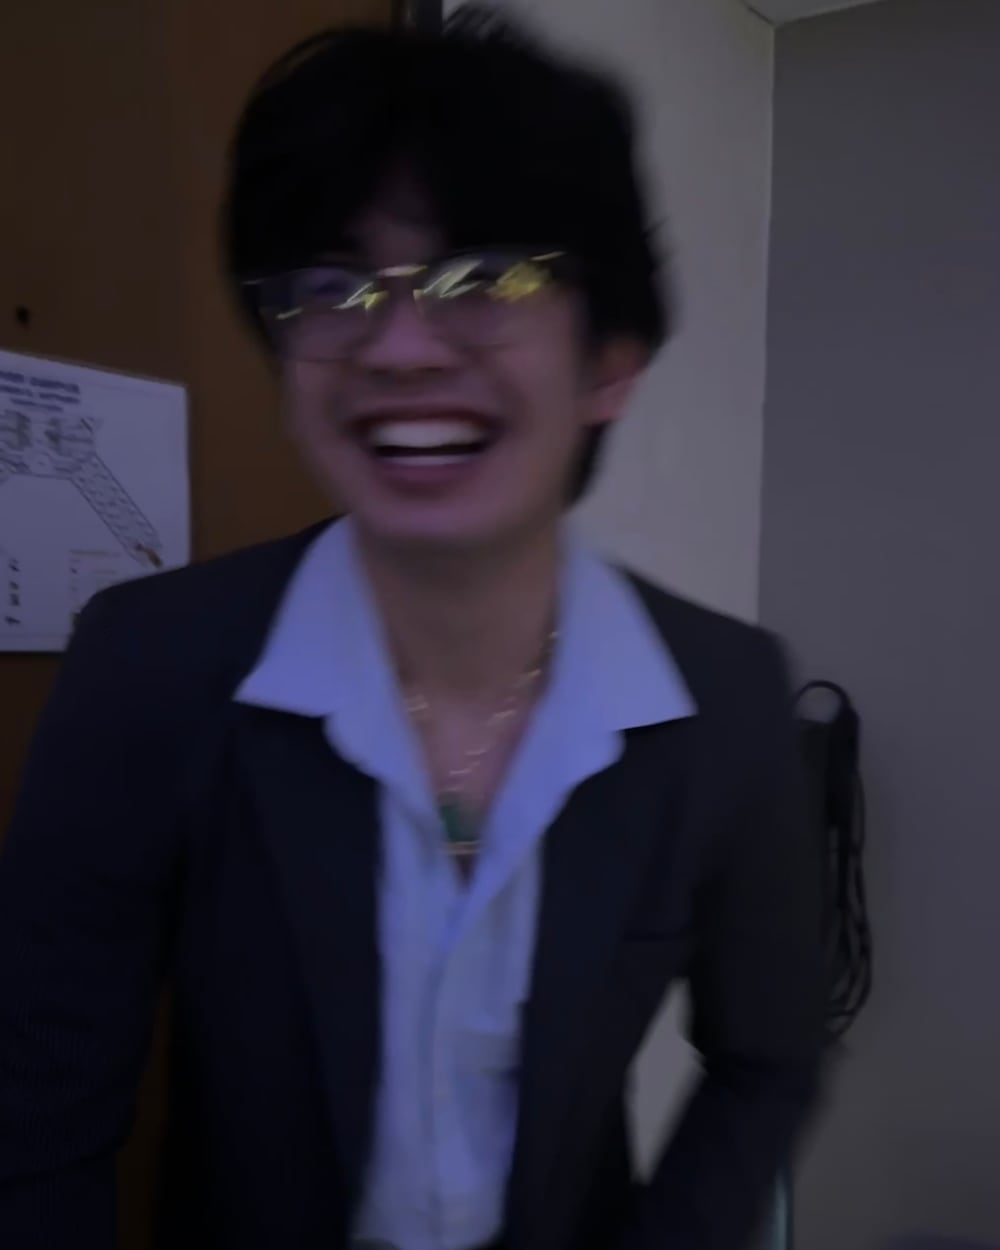
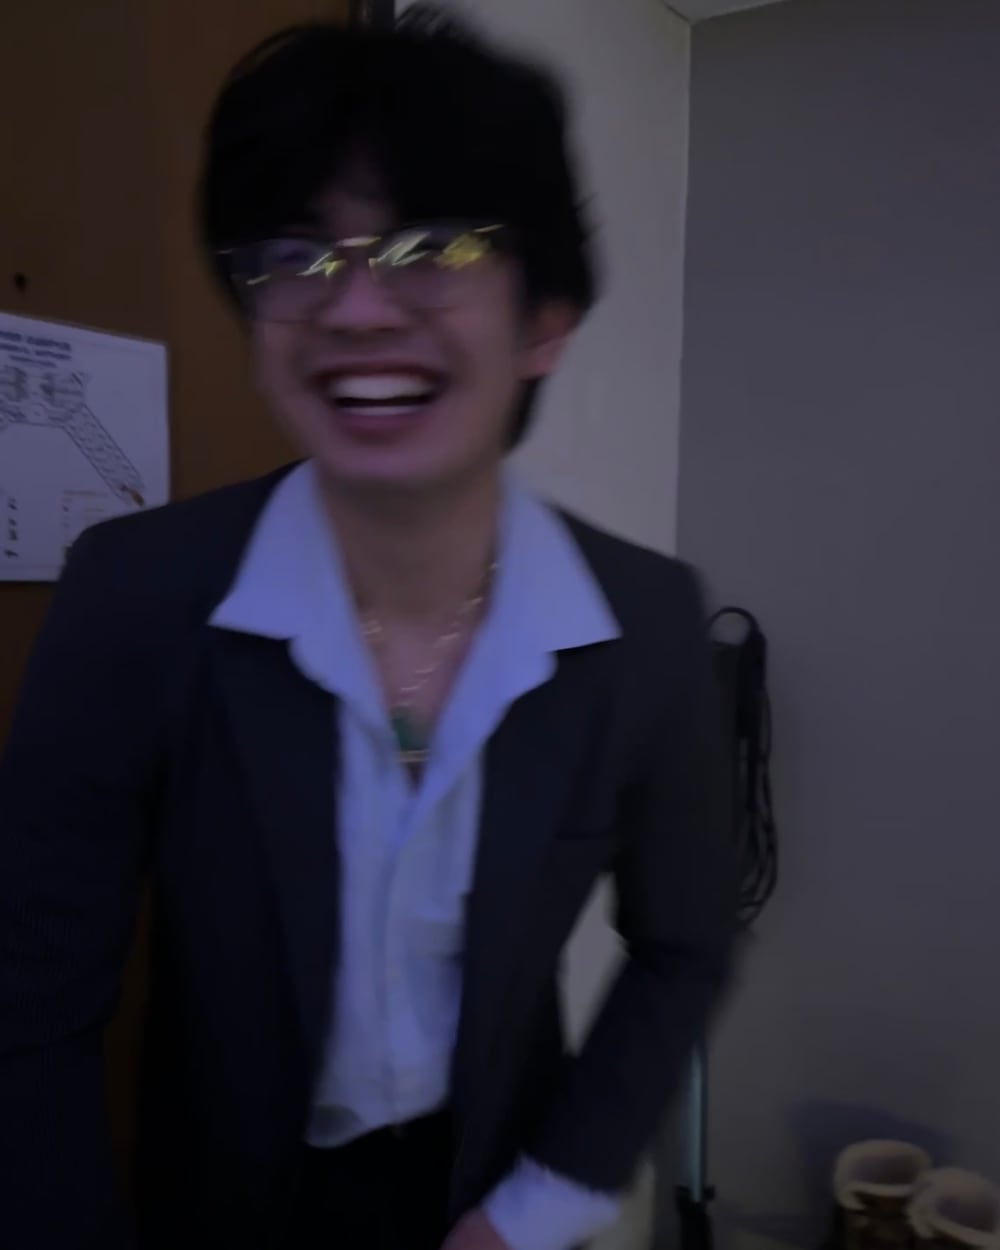
fix(about): zoom out the cover and keep the whole head on phones

diff --git a/src/components/pages/aboutPage.test.jsx b/src/components/pages/aboutPage.test.jsx
@@ -8,6 +8,8 @@ import {
 
 import AboutPage from './aboutPage';
 
+import aboutCss from '../../styles/about.css?raw';
+
 import { photographs } from '../../data/photographs';
 
 import {
@@ -608,6 +610,13 @@ test('the portrait shows the cover and counts only the other photos', () => {
   expect(cover).toHaveAttribute('alt', 'Quang laughing in a dark suit jacket and open-collared white shirt');
   expect(Number(cover.getAttribute('width')) / Number(cover.getAttribute('height'))).toBeCloseTo(4 / 5, 3);
   expect(portrait).toHaveTextContent('4 more photos');
+});
+
+
+test('the square phone portrait keeps the top of the cover, where the head is', () => {
+  const phone = aboutCss.slice(aboutCss.indexOf('@media (max-width: 760px)'));
+
+  expect(phone).toMatch(/\.about-portrait-button img \{ aspect-ratio: 1; object-position: top; \}/);
 });
 
 

diff --git a/src/styles/about.css b/src/styles/about.css
@@ -422,7 +422,7 @@
   .about-hero-grid { grid-template-columns: 1fr; grid-template-areas: 'intro' 'portrait' 'body'; }
   .about-location { margin-bottom: 1.75rem; }
   .about-portrait { justify-self: center; width: min(100% - 1.5rem, 21rem); margin-bottom: 2.25rem; }
-  .about-portrait-button img { aspect-ratio: 1; }
+  .about-portrait-button img { aspect-ratio: 1; object-position: top; }
   .about-index ol { grid-template-columns: repeat(2, minmax(0, 1fr)); }
   .about-index a { padding-top: .75rem; }
 
